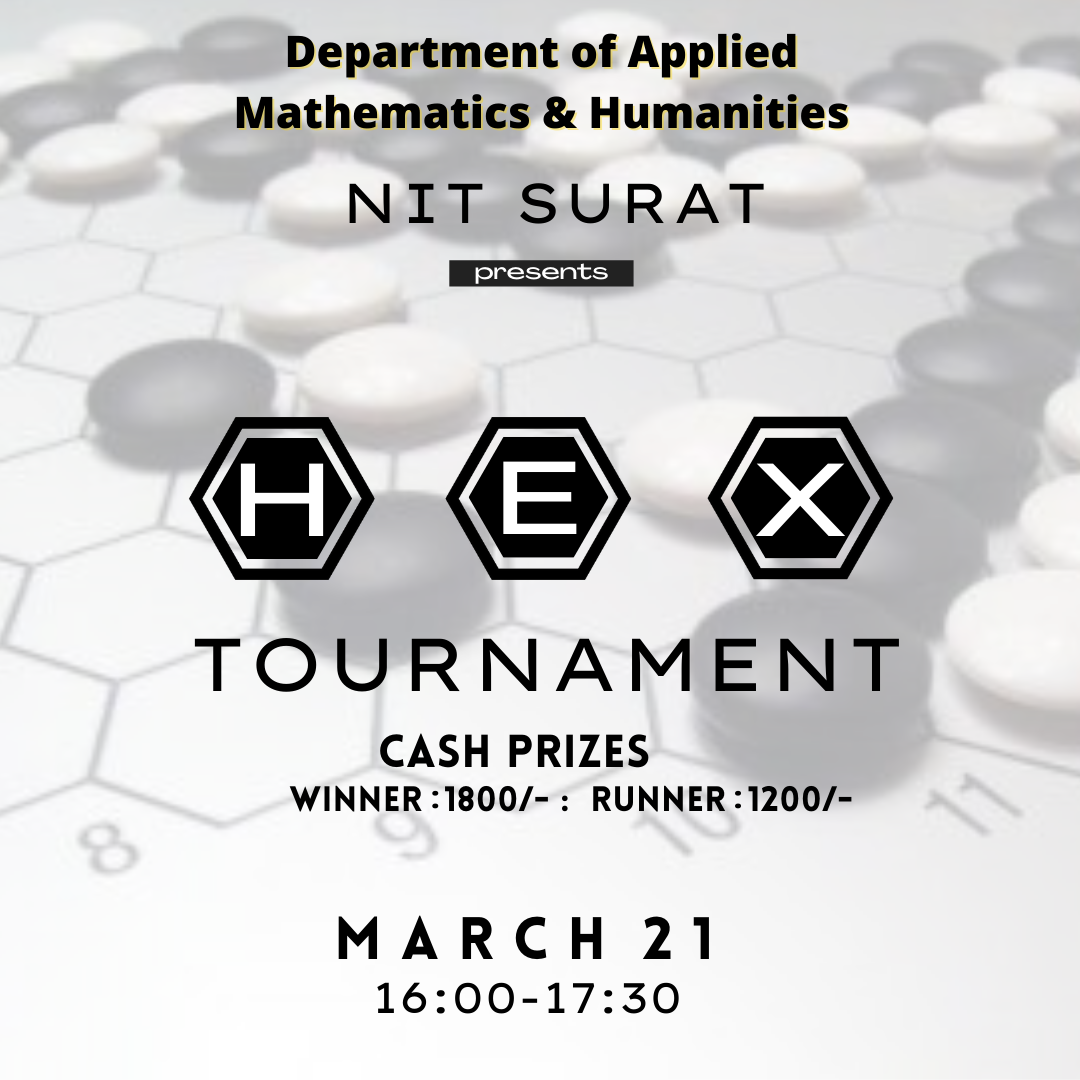
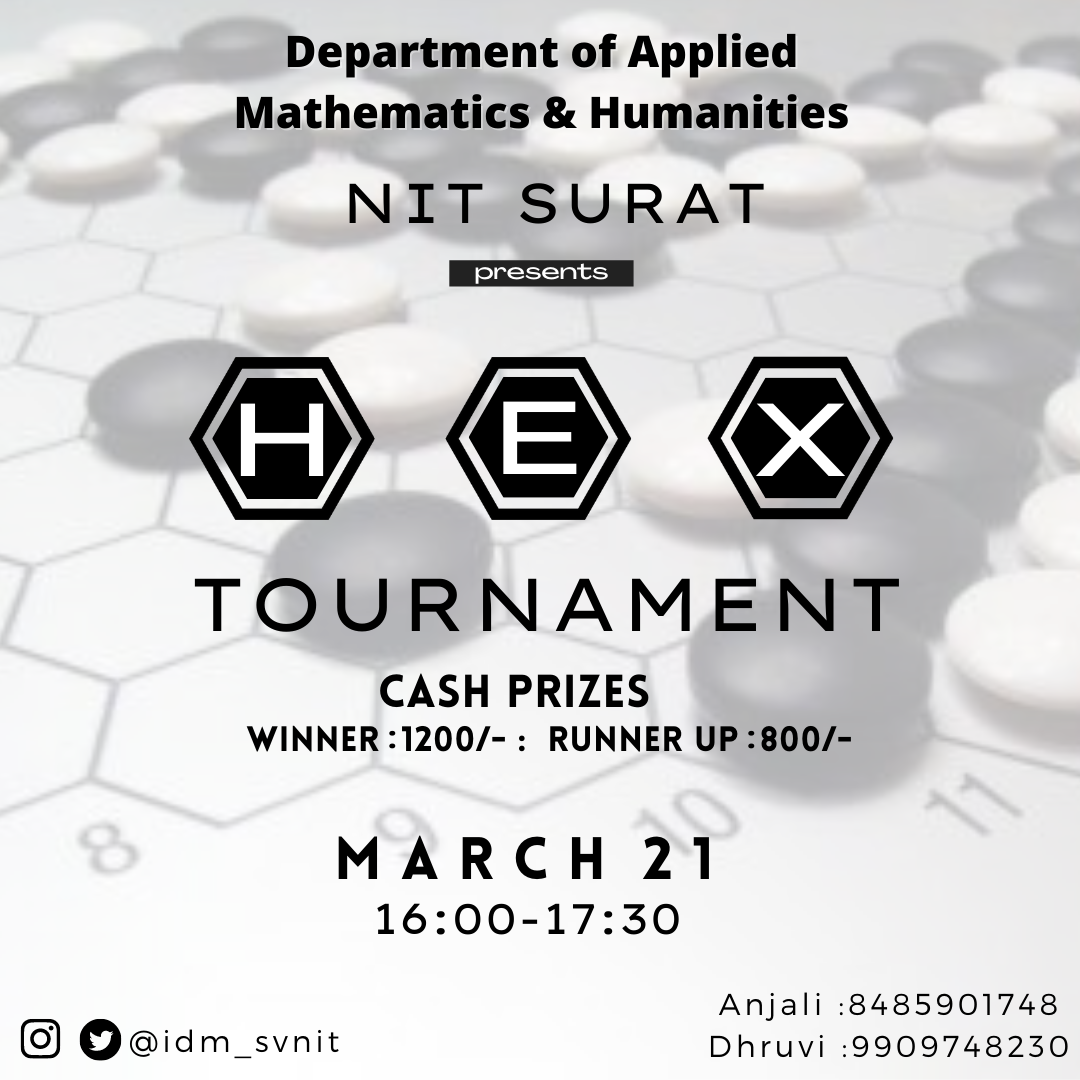
Done

diff --git a/events.html b/events.html
@@ -106,6 +106,15 @@
           <h3>Paper Presentation</h3>
           <p>
             Writing and presenting one's work and the results of one's study is an integral part of being a researcher, be it in the field of academia or as an industry professional in an R&D department. This event is meant to provide students with a suitable low-risk environment to present their work or any study that they might have done, in the format of a proper PowerPoint/Beamer presentation, which could prove to be a valuable experience moving forward. Participants will be required to send in the abstract of their presentation beforehand, so that we may assign appropriate teaching staff/professors to judge their presentation. These more minute details will be informed soon.
+            <br><br>
+            Rules:<br>
+            1. The participants will be required to submit the abstracts of their papers beforehand so that the organising committee can assign professors from the appropriate subject domain for judging their work. They may either submit their abstract along with the registration form, or mail them to us  latest by 5:00 pm, 18th March 2021, at idm202x@gmail.com.<br>
+            2. Each participant will get 15 minutes to present their paper, and that will be followed by 5 minutes of Q&A.<br>
+            3. Participants will be required to mail the presentations to us by EOD (end of the day) by 19th March 2021; that is, two day prior to the actual event date, which is the 21st of March, 2021.<br>
+            4. The presentations should be made preferably on LaTeX. Other formats may be accepted however priority will be given to those presentations which are in LaTeX format.<br>
+            5. The judging will be done in one or two rounds depending on the number of registrations for the event. In the case that the event is held in two rounds, the best three presentations from the previous round will go to the next round and the winner will be judged from among them.<br>
+            <br>
+            The winner of the final match will receive a cash prize of <b>1500/-</b> and the runner up will receive a cash prize of <b>1000/-</b>
           </p>
         </div>
       </div>
@@ -115,10 +124,20 @@
           <h3>Poster Presentation</h3>
           <p>
             The participants will be required to create and present a scientific poster on any topic of their choice, preferably with some relevance to the world of mathematics. Here, the quality of explanation, aesthetics of a poster and the overall presentation will be judged. The topic doesn't need to be an output of any original work/study; you could go ahead and present a poster pertaining to whatever area you might be interested in presenting.
+            <br><br>
+            Rules:<br>
+            1. Participants must submit their scientific posters, latest, by EOD (end of day) on 20th March 2021, at idm202x@gmail.com.<br>
+            2. Each participant will get 10 minutes to present their paper, and that will be followed by 5 minutes of Q&A by the judges.<br>
+            3. The poster presentations should be made preferably on LaTeX. Other formats may be accepted however priority will be given to those presentations which are in LaTeX format.<br>
+            4. The judging will be done on the basis of aesthetic quality and the oral presentation/explanation of the topic by the participants.<br>
+            <br><br>
+            Note: Unlike with the paper presentation, the poster presentation doesn't need to be about an original topic. Participants are free to choose any mathematical topic they might be interested in, and create a scientific poster out of it.<br>
+            <br>
+            The winner of the final match will receive a cash prize of <b>1500/-</b> and the runner up will receive a cash prize of <b>1000/-</b>
           </p>
         </div>
         <div class="image">
-          <img src="images/Poster.jpg" alt="" />
+          <img src="images/Poster.png" alt="" />
         </div>
       </div>
 
@@ -129,7 +148,19 @@
         <div class="content">
           <h3>Cipher</h3>
           <p>
-            Most of you must have heard about Bitcoin and cryptocurrency. You might even already know that it has to do with encoding and decoding. But have you ever wondered how it works? Whenever a person A sends a Bitcoin to a person B, it is sent in some encrypted language, which can be thought of as a mathematical problem. There are thousands of people called Miners, who solve the problem by decrypting (decoding) it. Cipher 2.0 is all about the decryption of such encrypted codes. So, let's see how you would fare in resolving such mathematical problems. Don't miss giving it a try!
+            Most of you must have heard about Bitcoin and cryptocurrency. You might even already know that it has to do with encoding and decoding. But have you ever wondered how it works? Whenever a person A sends a Bitcoin to a person B, it is sent in some encrypted language, which can be thought of as a mathematical problem. There are thousands of people called Miners, who solve the problem by decrypting (decoding) it.
+            <br><br>
+            Cipher 2.0 is all about the decryption of such encrypted codes where the participation is expected to be in groups of 2 or 3. So, let's see how you would fare in resolving such mathematical problems. Don't miss giving it a try!
+            <br><br>
+            <b>THEME – MURDER MYSTERY </b><br>
+            <b>Mode</b> - Online<br>
+            <b>Communication</b> - GMeet via Break-out Rooms & WhatsApp<br>
+            <b>Format</b> - Round Wise Pdf<br>
+            <b>Time Limit</b> – 2 hours i.e., from 13:30 to 15:30<br>
+            -There will be 7 rounds and if Tie occurs then there will be a Tie Breaker Pdf. <br>
+            -Instructions Pdf will be provided as the first Pdf While Solving Cipher 2.0<br>
+            <b>Preferable Team Size</b> – 2 to 3 members
+            The winning team will receive a cash prize of <b>2000/-</b>
           </p>
         </div>
       </div>
@@ -138,7 +169,23 @@
         <div class="content">
           <h3>HEX Tournament</h3>
           <p>
-            Hex is a two player abstract strategy board game in which players attempt to connect opposite sides of a hexagonal board. The game has deep strategy, sharp tactics and a profound mathematical underpinning. It has a combination of graph theory, game theory and artificial intelligence.
+            Hex is a two player abstract strategy board game in which players attempt to connect opposite sides of a hexagonal board. The game has deep strategy, sharp tactics and a profound mathematical underpinning. It has a combination of graph theory, game theory and artificial intelligence.<br>
+            <br>
+            Rules:<br>
+            1. Each player should try to connect opposite sides of a hexagonal board. One player will connect from top to bottom or vice versa and the other from left to right or vice versa.<br>
+            2. The one who successfully connects the opposites side of the board without any breaks will be the winner.(Due to the topology of Hex board, tie is impossible.)<br>
+            3. If one of the player exceeds the provided time then the opponent will be declared as winner by default.<br>
+            4. The participant who lost the game will be eliminated from the game and is not eligible to be part of next levels.<br>
+            <br>
+            Note:<br>
+            1.  All the participants are instructed to create an account on <a href="https://www.playok.com/en/hex/" target="_blank">playok.com/en/hex</a> beforehand and provide username in the respective google form(will be given), and the username of participants must start with their name.<br>
+            2. All the participants are required to join the Google Meet atleast 5 minutes before the time, i.e, before 15:55.<br>
+            3. Each pair of participants will be allotted a breakout room in the Google meet where they will play against each other.<br>
+            4. One of the participant in each room should share their screen. Volunteers will watch the game and if someone tries to cheat then he/she will get disqualified.<br>
+            5. As the level increases, difficulty level will also be increased.<br>
+            6. In case of network issues, inform the volunteers.<br>
+            <br>
+            The winner of the final match will receive a cash prize of <b>1200/-</b> and the runner up will receive a cash prize of <b>800/-</b>
           </p>
         </div>
         <div class="image">
@@ -154,6 +201,20 @@
           <h3>Mazematics</h3>
           <p>
             This event is about discovery, creative thought and looking at things from a different perspective which are fundamental in Mathematics. In this event the participants have to utilise their mathematical skills and analytical ability to hunt down the puzzles that are hidden throughout a website and  solve them. This Maths Hunt should ideally be played by teams and is open for all.
+            <br><br>
+            Rules:<br>
+            1. All participants will be joining a Google Meet and each team will be alloted a break out room.<br>
+            2. A puzzle will be given in the meet chat box and WhatsApp group(created before). After receiveing the puzzle, participants may start joining their respective breakout rooms.<br>
+            3. The teams have to solve the puzzle and the answer will be a keyword which will be hidden somewhere in this website.<br>
+            4. Once they finds the keyword, they have to click on it and it will direct them to a webpage which will contain the next puzzle.<br>
+            5. The answer of this puzzle will lead to another keyword in the website and that keyword will lead to another puzzle.<br>
+            6. This way the teams have to find all the answers in the correct order.<br>
+            7. After they have done that, one team member has to go to the "Contact" page in the website and <br>
+               &nbsp 7.1 Enter his/her first and last name and email id.<br>
+               &nbsp 7.2 In the message box, write all the answers in the correct order.<br>
+               &nbsp 7.3 Then click "Send".<br>
+            <br>
+            The first team to send all the correct answers in the correct order will be the winner and will receive a cash prize of <b>2000/-</b>
           </p>
         </div>
       </div>

diff --git a/team.html b/team.html
@@ -210,7 +210,7 @@
     <h3>Dr R. K. Jana <br>(Faculty Coordinator)</h3>
     <span></span>
     <div class="icons">
-      <a href="mailto:rkjana2003@yahoo.com" class="fas fa-envelope-open"></a>
+      <a href="mailto:rkjana2003@yahoo.com" class="fas fa-envelope"></a>
     </div>
   </div>
 </div>
@@ -223,7 +223,7 @@
           <div class="info">
             <h3>Wassem Ahmad (Student Coodinator) </h3>
             <div class="icons">
-              <a href="mailto:ahmd.waseem5@gmail.com" class="fas fa-envelope-open"></a>
+              <a href="mailto:ahmd.waseem5@gmail.com" class="fas fa-envelope"></a>
             </div>
           </div>
         </div>
@@ -235,7 +235,7 @@
           <div class="info">
             <h3>Vatsal Moradiya (Student Coodinator)</h3>
             <div class="icons">
-              <a href="mailto:vmvatsalmoradiya13@gmail.com" class="fas fa-envelope-open"></a>
+              <a href="mailto:vmvatsalmoradiya13@gmail.com" class="fas fa-envelope"></a>
             </div>
           </div>
         </div>
@@ -247,7 +247,7 @@
           <div class="info">
             <h3>Vishal<br> Agarwal </h3>
             <div class="icons">
-              <a href="mailto:vishal.21agarwal@rediffmail.com" class="fas fa-envelope-open"></a>
+              <a href="mailto:vishal.21agarwal@rediffmail.com" class="fas fa-envelope"></a>
             </div>
           </div>
         </div>
@@ -259,7 +259,7 @@
           <div class="info">
             <h3>Priyanka<br> Bhatter</h3>
             <div class="icons">
-              <a href="mailto:priyankabhatter24@gmail.com" class="fas fa-envelope-open"></a>
+              <a href="mailto:priyankabhatter24@gmail.com" class="fas fa-envelope"></a>
             </div>
           </div>
         </div>
@@ -272,7 +272,7 @@
           <div class="info">
             <h3>Anjali<br> Ranjan</h3>
             <div class="icons">
-              <a href="mailto:anjaliranjan025@gmail.com" class="fas fa-envelope-open"></a>
+              <a href="mailto:anjaliranjan025@gmail.com" class="fas fa-envelope"></a>
             </div>
           </div>
         </div>
@@ -284,7 +284,7 @@
           <div class="info">
             <h3>Chaluvagali<br> Meghna</h3>
             <div class="icons">
-              <a href="mailto:i17ma023@amhd.svnit.ac.in" class="fas fa-envelope-open"></a>
+              <a href="mailto:i17ma023@amhd.svnit.ac.in" class="fas fa-envelope"></a>
             </div>
           </div>
         </div>
@@ -296,7 +296,7 @@
           <div class="info">
             <h3>Disha<br> Chauhan</h3>
             <div class="icons">
-              <a href="mailto:digiperformdisha@gmail.com" class="fas fa-envelope-open"></a>
+              <a href="mailto:digiperformdisha@gmail.com" class="fas fa-envelope"></a>
             </div>
           </div>
         </div>
@@ -307,7 +307,7 @@
           <div class="info">
             <h3>Swati<br> Vasava</h3>
             <div class="icons">
-              <a href="mailto:i17ma012@amhd.svnit.ac.in" class="fas fa-envelope-open"></a>
+              <a href="mailto:i17ma012@amhd.svnit.ac.in" class="fas fa-envelope"></a>
             </div>
           </div>
         </div>
@@ -320,7 +320,7 @@
           <div class="info">
             <h3>Parvathy<br> A</h3>
             <div class="icons">
-              <a href="mailto:parvathia.1998@gmail.com" class="fas fa-envelope-open"></a>
+              <a href="mailto:parvathia.1998@gmail.com" class="fas fa-envelope"></a>
             </div>
           </div>
         </div>
@@ -332,7 +332,7 @@
           <div class="info">
             <h3>Heena<br> Thakur</h3>
             <div class="icons">
-              <a href="mailto:himeshwarithakur@gmail.com" class="fas fa-envelope-open"></a>
+              <a href="mailto:himeshwarithakur@gmail.com" class="fas fa-envelope"></a>
             </div>
           </div>
         </div>
@@ -343,7 +343,7 @@
           <div class="info">
             <h3>Priya<br> Singh</h3>
             <div class="icons">
-              <a href="mailto:i18ma010@amhd.svnit.ac.in" class="fas fa-envelope-open"></a>
+              <a href="mailto:i18ma010@amhd.svnit.ac.in" class="fas fa-envelope"></a>
             </div>
           </div>
         </div>
@@ -354,7 +354,7 @@
           <div class="info">
             <h3>Shivam <br>Sharma</h3>
             <div class="icons">
-              <a href="mailto:shivamshar021@gmail.com" class="fas fa-envelope-open"></a>
+              <a href="mailto:shivamshar021@gmail.com" class="fas fa-envelope"></a>
             </div>
           </div>
         </div>
@@ -367,7 +367,7 @@
     <div class="info">
       <h3>Vaibhav<br> Gupta</h3>
       <div class="icons">
-        <a href="mailto:vaibhavgupta0807@gmail.com" class="fas fa-envelope-open"></a>
+        <a href="mailto:vaibhavgupta0807@gmail.com" class="fas fa-envelope"></a>
       </div>
     </div>
   </div>
@@ -378,7 +378,7 @@
       <div class="info">
         <h3>Dhruvi <br>Nakrani</h3>
         <div class="icons">
-          <a href="mailto:nakranidhruvi67@gmail.com" class="fas fa-envelope-open"></a>
+          <a href="mailto:nakranidhruvi67@gmail.com" class="fas fa-envelope"></a>
         </div>
       </div>
     </div>
@@ -389,7 +389,7 @@
       <div class="info">
         <h3>Nitish<br> Dubey</h3>
         <div class="icons">
-          <a href="mailto:nitishdubey964@gmail.com" class="fas fa-envelope-open"></a>
+          <a href="mailto:nitishdubey964@gmail.com" class="fas fa-envelope"></a>
         </div>
       </div>
     </div>
@@ -400,7 +400,7 @@
       <div class="info">
         <h3>Harsh <br>Chauhan</h3>
         <div class="icons">
-          <a href="mailto:harshchauhan8487@gmail.com" class="fas fa-envelope-open"></a>
+          <a href="mailto:harshchauhan8487@gmail.com" class="fas fa-envelope"></a>
         </div>
       </div>
     </div>
@@ -415,7 +415,7 @@
     <div class="info">
       <h3>Sri Harshitha <br>Nalumasu</h3>
       <div class="icons">
-        <a href="mailto:sriharshitha.nalumasu@gmail.com" class="fas fa-envelope-open"></a>
+        <a href="mailto:sriharshitha.nalumasu@gmail.com" class="fas fa-envelope"></a>
       </div>
     </div>
   </div>
@@ -428,7 +428,7 @@
       <div class="info">
         <h3>Prakruti<br> Kalsaria</h3>
         <div class="icons">
-          <a href="mailto:kprakrutik@gmail.com" class="fas fa-envelope-open"></a>
+          <a href="mailto:kprakrutik@gmail.com" class="fas fa-envelope"></a>
         </div>
       </div>
     </div>
@@ -441,7 +441,7 @@
         <div class="info">
           <h3>Niraj<br> Velankar</h3>
           <div class="icons">
-            <a href="mailto:nirajvel.2000@gmail.com" class="fas fa-envelope-open"></a>
+            <a href="mailto:nirajvel.2000@gmail.com" class="fas fa-envelope"></a>
           </div>
         </div>
       </div>
@@ -455,7 +455,7 @@
           <div class="info">
             <h3>Mansi<br> Solanki</h3>
             <div class="icons">
-              <a href="mailto:mansi.solanki7583@gmail.com" class="fas fa-envelope-open"></a>
+              <a href="mailto:mansi.solanki7583@gmail.com" class="fas fa-envelope"></a>
             </div>
           </div>
         </div>
@@ -470,7 +470,7 @@
   <div class="info">
     <h3>Mridul <br>Sehgal</h3>
     <div class="icons">
-      <a href="mailto:I19MA006@amhd.Svnit.ac.in" class="fas fa-envelope-open"></a>
+      <a href="mailto:I19MA006@amhd.Svnit.ac.in" class="fas fa-envelope"></a>
     </div>
   </div>
 </div>
@@ -483,7 +483,7 @@
   <div class="info">
     <h3>Chanchal<br> Jaiswal</h3>
     <div class="icons">
-      <a href="mailto:I19ma044@amhd.svnit.ac.in" class="fas fa-envelope-open"></a>
+      <a href="mailto:I19ma044@amhd.svnit.ac.in" class="fas fa-envelope"></a>
     </div>
   </div>
 </div>
@@ -495,7 +495,7 @@
   <div class="info">
     <h3>Shivam<br> Rajpoot</h3>
     <div class="icons">
-      <a href="mailto:rshivam221b@gmail.com" class="fas fa-envelope-open"></a>
+      <a href="mailto:rshivam221b@gmail.com" class="fas fa-envelope"></a>
     </div>
   </div>
 </div>
@@ -507,7 +507,7 @@
   <div class="info">
     <h3>Mukul Raj<br> Mishra</h3>
     <div class="icons">
-      <a href="mailto:mukulraj161@gmail.com" class="fas fa-envelope-open"></a>
+      <a href="mailto:mukulraj161@gmail.com" class="fas fa-envelope"></a>
     </div>
   </div>
 </div>
@@ -520,7 +520,7 @@
   <div class="info">
     <h3>Disha<br> Parmar</h3>
     <div class="icons">
-      <a href="mailto:parmardisha434@gmail.com" class="fas fa-envelope-open"></a>
+      <a href="mailto:parmardisha434@gmail.com" class="fas fa-envelope"></a>
     </div>
   </div>
 </div>

diff --git a/main.css b/main.css
@@ -181,6 +181,10 @@ body{
   padding:1rem 0;
 }
 
+.content p a{
+  color: #17252A;
+}
+
 .home button{
   height: 4rem;
   width: 18rem;
@@ -234,7 +238,6 @@ body{
   position: absolute;
   font-size: 30rem;
   opacity: 0.3;
-  color: #2B7A7A;
   animation: rotate 10s linear infinite;
 }
 
@@ -403,7 +406,7 @@ body{
 }
 
 .team .row .card .info .icons a:hover{
-  color:var(--color);
+  color: #17252A;
 }
 
 .team .row .card::before, .team .row .card::after{

diff --git a/contact.html b/contact.html
@@ -259,8 +259,7 @@
 
       <div class="row">
         <div class="image">
-          <img src="images/cont_Frac.png" alt="" />
-          <figcaption>Enjoy this image of fractal and If you wanna view some interesting fractals<a href = "https://8kfractals.com/"> visit here</a> <figcaption>
+          <img src="images/Contact.png" alt="" />
         </div>
 
         <div class="form-container">
